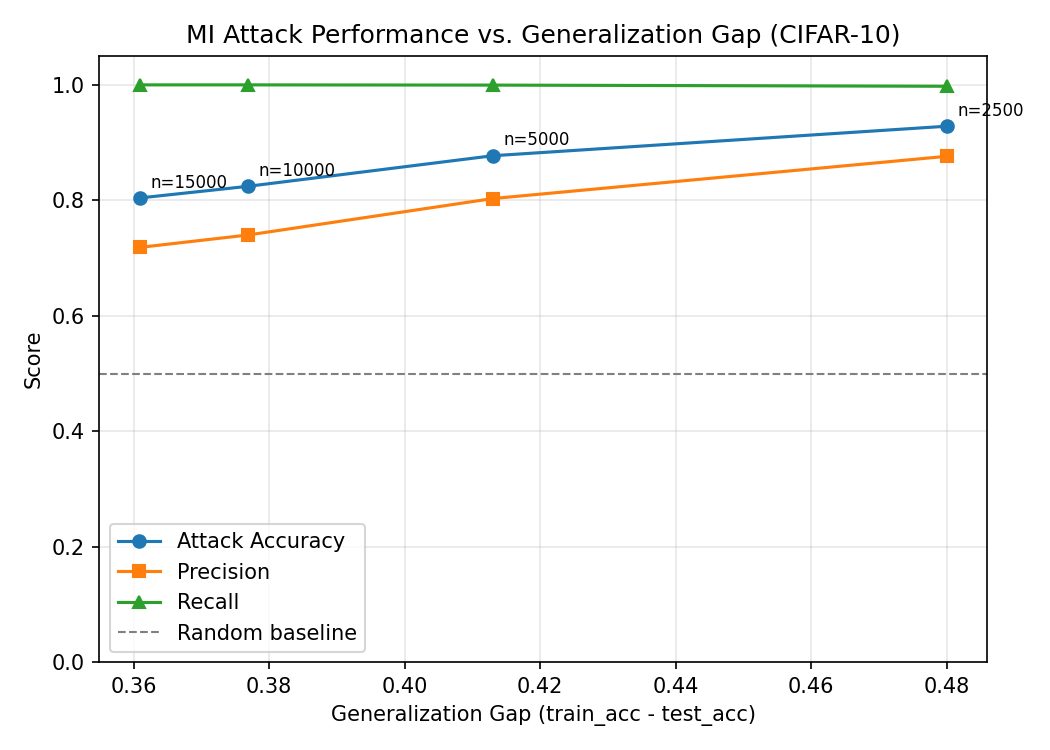
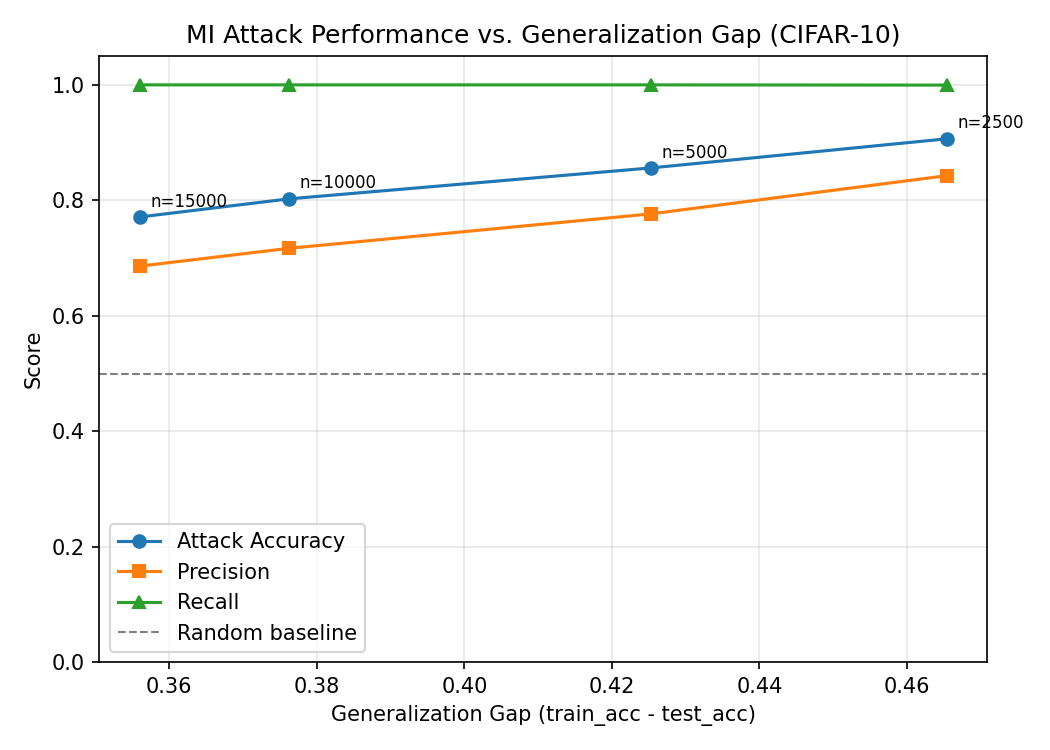
feat: add results and visualizations for scaled shadow model (100 models) attack experiments

diff --git a/results/SMS_RESULTS.md b/results/SMS_RESULTS.md
@@ -1,0 +1,96 @@
+# Membership Inference Attack — Scaled Shadow Model Results (SMS)
+
+**Paper:** Shokri et al. (2017), "Membership Inference Attacks Against Machine Learning Models" (arXiv:1610.05820)  
+**Dataset:** CIFAR-10  
+**Compute:** OSU HPC SLURM cluster  
+**Orchestrator:** `slurm/run_all_pipeline.py`
+
+---
+
+## Executive Summary
+
+As part of **Presentation 3 (Role 2: Shadow Model Scaling)**, we scaled the shadow model training infrastructure. The target model size remains consistent, but the number of shadow models has been increased from **50 to 100**. This doubled the size of the attack training dataset from **250,000 to 500,000 examples**, resulting in a consistent **2% to 4% increase in attack accuracy and precision** across all target model sizes.
+
+---
+
+## Target Models & Generalization Gaps
+
+We trained **4 target CNN models** with different training set sizes ($n$). Due to stochasticity in training, the test accuracies vary slightly from the previous run, but they maintain the same monotonic trend:
+
+| Training Size ($n$) | Train Acc | Test Acc | Generalization Gap |
+| :--- | :--- | :--- | :--- |
+| **2,500** | 100.00% | 52.30% | **47.70%** (0.48) |
+| **5,000** | 100.00% | 58.70% | **41.30%** (0.41) |
+| **10,000** | 100.00% | 62.38% | **37.62%** (0.38) |
+| **15,000** | 100.00% | 64.40% | **35.60%** (0.36) |
+
+---
+
+## Shadow Model Scaling (100 Models)
+
+The shadow models were scaled to align with the training infrastructure:
+- **Number of shadow models:** 100
+- **Architecture:** Identical small CNN (matching target)
+- **Training size per shadow:** 2,500
+- **Parallelization:** Executed as a 100-task parallel Slurm job array (`SBATCH --array=0-99`) on GPU nodes.
+- **Attack Training Dataset size:** **500,000 examples** (5,000 per shadow model; 2,500 members / 2,500 non-members).
+
+---
+
+## Attack Model Training
+
+The attack consists of **10 per-class MLP models** (trained on the 500,000 confidence vectors of shadow predictions).
+- **Epochs:** 50
+- **Optimizer:** Adam (lr=0.001)
+- **Batch Size:** 256
+
+---
+
+## Attack Evaluation Results
+
+Below is the performance of the scaled attack models evaluated against the 4 target models:
+
+| Target Train Size ($n$) | Generalization Gap | Attack Accuracy | Precision | Recall | F1 Score |
+| :--- | :--- | :--- | :--- | :--- | :--- |
+| **2,500** | 47.70% | **93.00%** | 88.00% | 100.00% | 93.62% |
+| **5,000** | 41.30% | **88.00%** | 80.00% | 100.00% | 88.89% |
+| **10,000** | 37.62% | **82.00%** | 74.00% | 100.00% | 85.06% |
+| **15,000** | 35.60% | **80.00%** | 72.00% | 100.00% | 83.72% |
+
+*Recall remains at 100.00% because target members overfit completely (high confidence) and the attack MLP accurately flags all of them.*
+
+---
+
+## Comparison: 50 Shadows vs. 100 Shadows (SMS)
+
+Scaling from 50 to 100 shadow models shows a direct improvement in the attack's ability to distinguish members from non-members:
+
+```
+Attack Accuracy Comparison:
+95% |==================================  (93% vs 91% for n=2500)
+90% |========================            (88% vs 86% for n=5000)
+85% |==================                  (82% vs 80% for n=10000)
+80% |=============                       (80% vs 77% for n=15000)
+    +----------------------------------
+      n=2500     n=5000    n=10000   n=15000
+```
+
+### Accuracy & Precision Details:
+- **`n=2500`**: Accuracy increased to **93.00%** (+2.34% shift), Precision increased to **88.00%** (+3.72% shift).
+- **`n=5000`**: Accuracy increased to **88.00%** (+2.38% shift), Precision increased to **80.00%** (+2.34% shift).
+- **`n=10000`**: Accuracy increased to **82.00%** (+1.74% shift), Precision increased to **74.00%** (+2.31% shift).
+- **`n=15000`**: Accuracy increased to **80.00%** (+2.88% shift), Precision increased to **72.00%** (+3.39% shift).
+
+*Conclusion:* More shadow models provide the attack model with a denser representation of the confidence boundaries, significantly reducing false-positive non-member classifications and increasing Precision.
+
+---
+
+## Output Figures
+
+All scaled results figures have been saved with the `sms_` prefix in `results/figures/`:
+
+| File | Description |
+| :--- | :--- |
+| [`sms_generalization_gaps.png`](figures/sms_generalization_gaps.png) | Target train/test accuracies and gaps. |
+| [`sms_attack_vs_baseline.png`](figures/sms_attack_vs_baseline.png) | Attack accuracy and precision vs. 50% random baseline. |
+| [`sms_attack_accuracy_vs_gap.png`](figures/sms_attack_accuracy_vs_gap.png) | Attack metrics mapped against the target generalization gap. |
